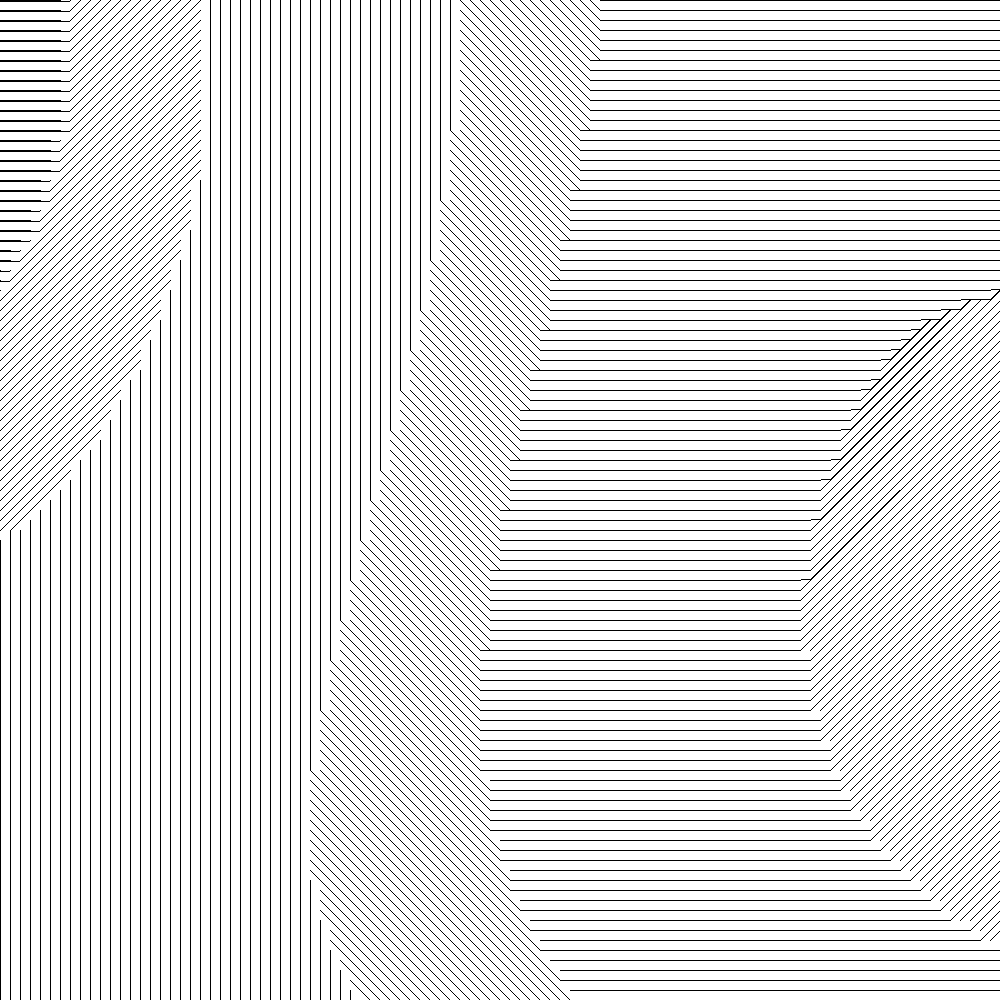
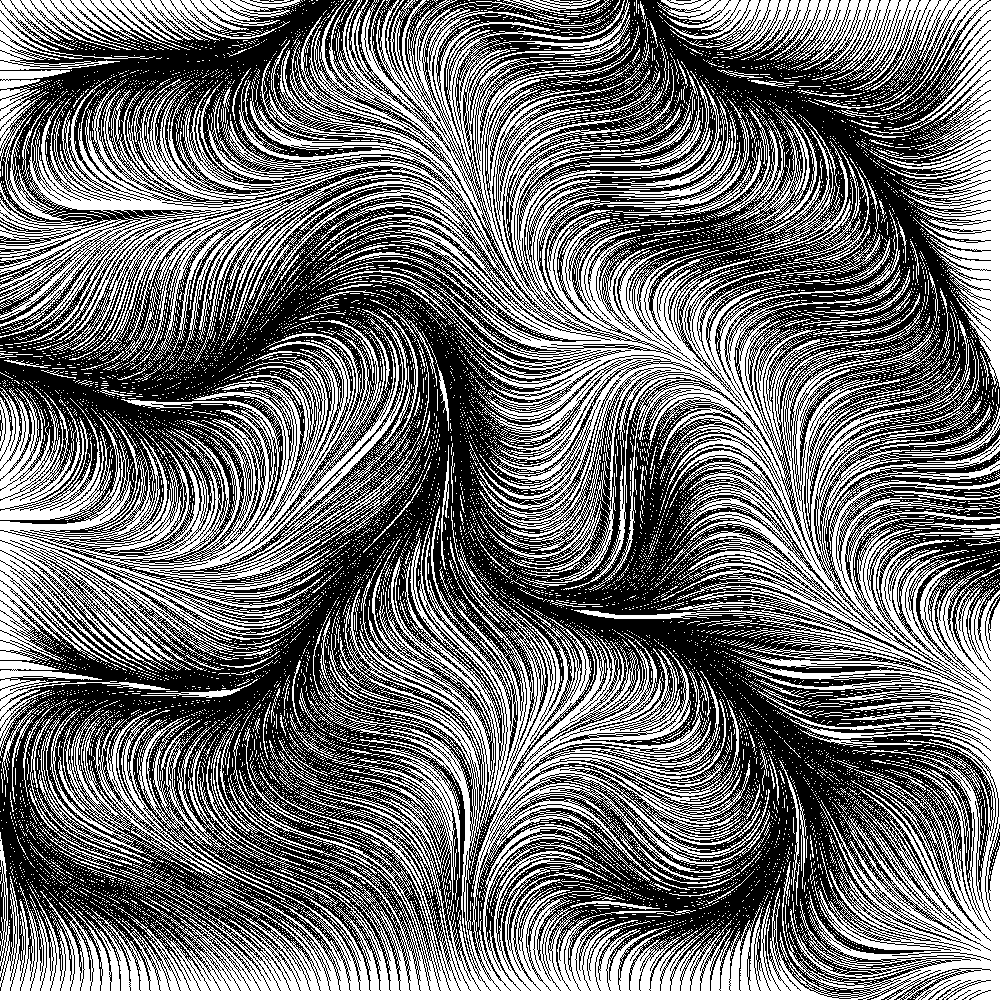
Hair

diff --git a/main.py b/main.py
@@ -29,12 +29,10 @@ def render_rays(image_height: int, image_width: int, resolution: int, \
 
     # Initializes Noise
     np.random.seed(0)
-    noise = generate_perlin_noise_2d((256, 256), (8, 8))
-    plt.figure()
-    plt.imshow(noise, cmap='gray', interpolation='lanczos')
-    plt.colorbar()
-    plt.show()
-"""
+    # the actual range is [-sqrt(n)/2, sqrt(n)/2], where n is the dimensionality
+    raw_noise = generate_perlin_noise_2d((256, 256), (8, 8))
+    noise = (raw_noise - raw_noise.min()) / (raw_noise.max() - raw_noise.min()) # [0, 1]
+
     for j in range(num_columns):
         print(f'Progress: {j + 1}/{num_columns} lines ({j / num_columns * 100:.02f}%)', end='\r')
 
@@ -43,7 +41,7 @@ def render_rays(image_height: int, image_width: int, resolution: int, \
 
             for _ in range(curve_steps):
                 if 0 <= pixel_x < image_width and 0 <= pixel_y < image_height:
-                    image[pixel_x][pixel_y] = np.clip([0], 0, 1)
+                    image[math.floor(pixel_x)][math.floor(pixel_y)] = np.clip([0], 0, 1)
                 else:
                     continue
 
@@ -61,11 +59,11 @@ def render_rays(image_height: int, image_width: int, resolution: int, \
                 step_x = math.cos(grid_angle)
                 step_y = math.sin(grid_angle)
 
-                pixel_x = round(pixel_x + step_x)
-                pixel_y = round(pixel_y + step_y)
+                pixel_x = pixel_x + step_x # Here
+                pixel_y = pixel_y + step_y # Here
 
     plt.imsave(save_to_file, image)  # Saves image
-"""
+
 def main() -> None:
     """ Main
     """

diff --git a/test.py b/test.py
@@ -1,0 +1,17 @@
+import matplotlib.pyplot as plt
+import numpy as np
+from perlin_numpy import (
+    generate_perlin_noise_2d, generate_fractal_noise_2d
+)
+
+np.random.seed(0)
+noise = generate_perlin_noise_2d((256, 256), (8, 8))
+plt.imshow(noise, cmap='gray', interpolation='lanczos')
+plt.colorbar()
+
+np.random.seed(0)
+noise = generate_fractal_noise_2d((256, 256), (8, 8), 5)
+plt.figure()
+plt.imshow(noise, cmap='gray', interpolation='lanczos')
+plt.colorbar()
+plt.show()
